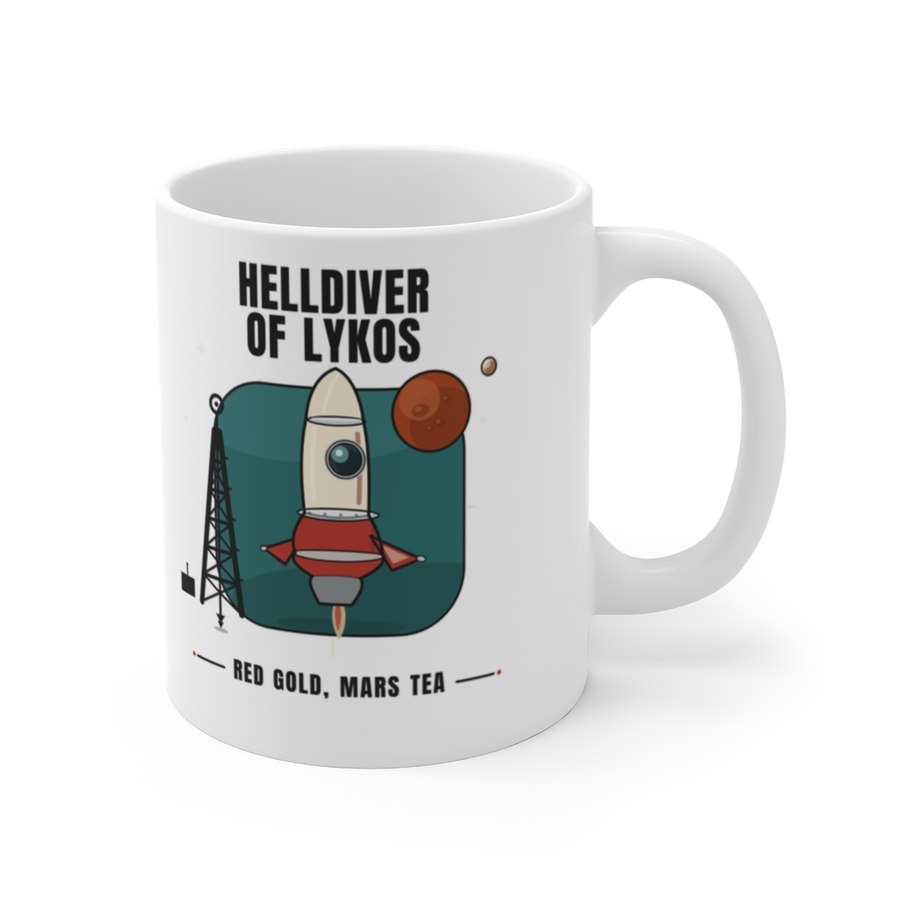
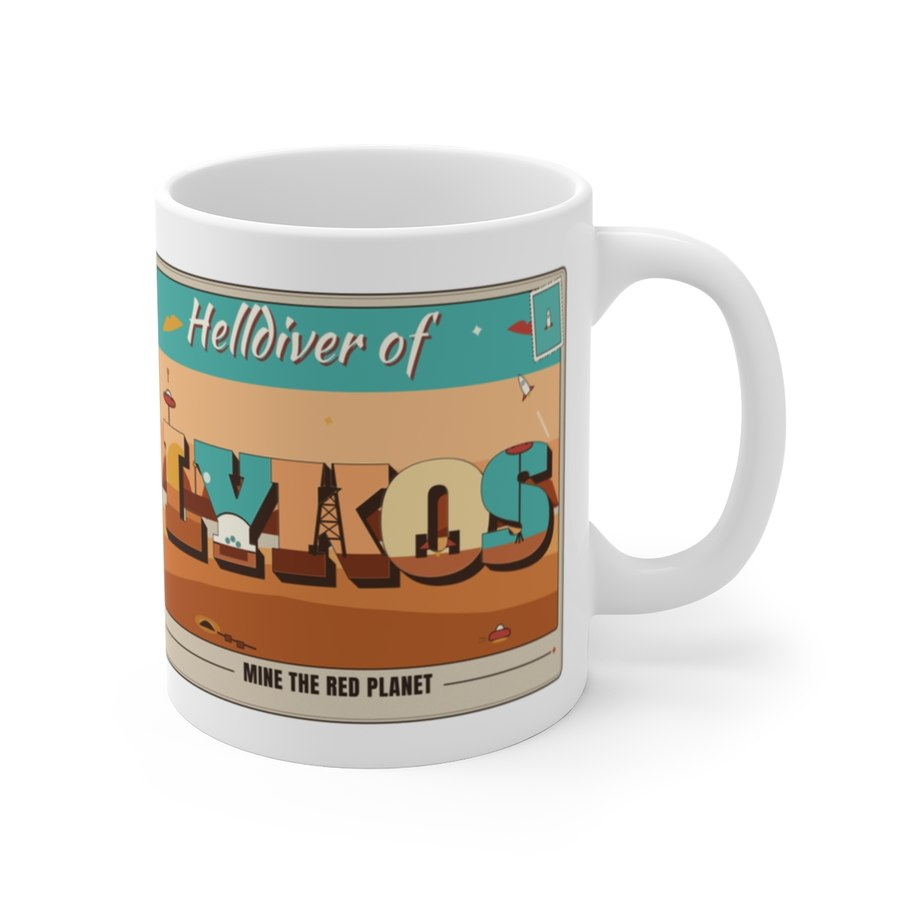
feat(shop): Helldiver mug in the 50s postcard design, real Printify photo

Changed region(s): [[0.1556, 0.28, 0.6533, 0.8089]]

diff --git a/shop.html b/shop.html
@@ -152,7 +152,7 @@
     <p class="thanks" id="thanks">You&rsquo;re on the list. One email when it&rsquo;s ready, nothing else.</p>
 
     <article class="item" id="journal"><div class="photo"><img src="shop-journal.jpg" width="1200" height="900" loading="lazy" alt="The journal’s black cover beside a filled-in example page: grateful for, one thing I’ll do, how I want to show up."></div><div class="text"><span class="num">01</span><h2>The 3-Question Morning Journal</h2><div class="kind">Paperback · 6×9 · 120 pages</div><div class="status"><span class="chip">Available</span><span class="price">$9.99</span></div><p class="line">Three questions. Five minutes. No dates and no day numbers, so a missed morning isn’t a failure.</p><div class="cta-row"><a class="btn primary" href="https://www.amazon.com/dp/B0HH9QJGMK">Get it on Amazon</a><a class="btn" href="journal.html">Look inside</a></div></div></article>
-    <article class="item flip" id="mug-helldiver"><div class="photo"><img src="shop-mug-helldiver-lykos.jpg" width="900" height="900" loading="lazy" alt="Product photo of a white 11 oz mug printed with Helldiver of Lykos: a retro rocket, a drilling derrick and Mars on a teal backdrop, tagline Red gold, Mars tea."></div><div class="text"><span class="num">02</span><h2>Helldiver of Lykos Mug</h2><div class="kind">Ceramic · 11 oz · white · printed both sides</div><div class="status"><span class="chip soon">Coming soon</span></div><p class="line">For the ones who go down first.</p><form class="list" action="https://formsubmit.co/6b1855c751632b4d9182af3a363c2755" method="POST"><input type="hidden" name="_subject" value="Shop list: Helldiver of Lykos mug"><input type="hidden" name="_captcha" value="false"><input type="hidden" name="_next" value="https://fourthkempson.com/shop.html#thanks"><input type="hidden" name="product" value="Helldiver of Lykos Mug"><input type="text" name="_honey" style="display:none" tabindex="-1" autocomplete="off" aria-hidden="true"><label for="em-mug-helldiver">Want one when it&rsquo;s ready?</label><div class="row"><input id="em-mug-helldiver" type="email" name="email" placeholder="you@example.com" required><button type="submit">Tell me</button></div><p class="fine">One email when it&rsquo;s ready. Nothing else.</p></form></div></article>
+    <article class="item flip" id="mug-helldiver"><div class="photo"><img src="shop-mug-helldiver-lykos.jpg" width="900" height="900" loading="lazy" alt="Product photo of a white 11 oz mug printed with a 1950s-style postcard: Helldiver of in script, LYKOS in big block letters filled with Mars scenes, tagline Mine the red planet."></div><div class="text"><span class="num">02</span><h2>Helldiver of Lykos Mug</h2><div class="kind">Ceramic · 11 oz · white · printed both sides</div><div class="status"><span class="chip soon">Coming soon</span></div><p class="line">For the ones who go down first.</p><form class="list" action="https://formsubmit.co/6b1855c751632b4d9182af3a363c2755" method="POST"><input type="hidden" name="_subject" value="Shop list: Helldiver of Lykos mug"><input type="hidden" name="_captcha" value="false"><input type="hidden" name="_next" value="https://fourthkempson.com/shop.html#thanks"><input type="hidden" name="product" value="Helldiver of Lykos Mug"><input type="text" name="_honey" style="display:none" tabindex="-1" autocomplete="off" aria-hidden="true"><label for="em-mug-helldiver">Want one when it&rsquo;s ready?</label><div class="row"><input id="em-mug-helldiver" type="email" name="email" placeholder="you@example.com" required><button type="submit">Tell me</button></div><p class="fine">One email when it&rsquo;s ready. Nothing else.</p></form></div></article>
     <article class="item" id="tee-spoderman"><div class="photo"><img src="shop-tee-spoderman.jpg" width="900" height="900" loading="lazy" alt="A black tee printed with a hand-drawn Spoderman and the words with great power comes great responsitrillitrance."></div><div class="text"><span class="num">03</span><h2>Spoderman Responsitrillitrance Tee</h2><div class="kind">Tee · heavyweight cotton · black · S to 2XL</div><div class="status"><span class="chip">Available</span><span class="price">$24.99</span></div><p class="line">With great power comes great responsitrillitrance.</p><div class="cta-row"><a class="btn primary" href="https://3f45b0-2.myshopify.com/products/spoderman-responsitrillitrance">Buy the tee</a></div></div></article>
   </div>
 </main>
